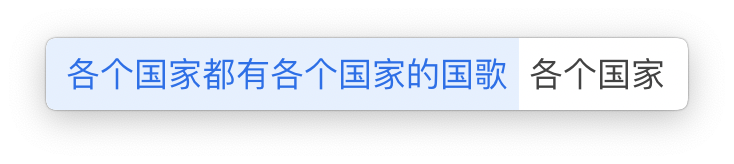
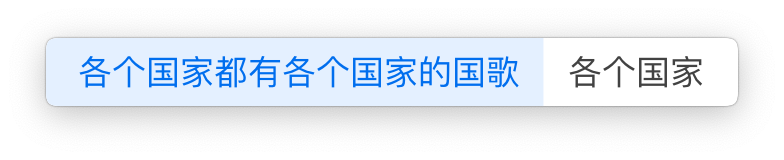
update 2021 schema

Changed region(s): [[0.0599, 0.2188, 0.9591, 0.6875], [0.9292, 0.25, 0.9591, 0.2812]]

diff --git a/_posts/2021-01-13-rime-squirrel-customization-2021.md b/_posts/2021-01-13-rime-squirrel-customization-2021.md
@@ -6,7 +6,10 @@ date:   2021-01-13 01:43 +0800
 
 今年的主题是放飞自我，做更多尝试，实现更高效的输入，获得量身定做般的成就感。
 
-<img src="/files/2021/squirrel_config_2021.png" alt="squirrel_screenshot_2021" width="50%">
+<img src="/files/2021/squirrel_config_2021.png" alt="squirrel_screenshot_2021" width="46%">
+<img src="/files/2021/punct_4.png" alt="squirrel_screenshot_2021" width="60%">
+<img src="/files/2021/punct_3.png" alt="squirrel_screenshot_2021" width="40%">
+<img src="/files/2021/emoji_1.png" alt="squirrel_screenshot_2021" width="25%">
 
 先尝试了[小鹤双拼的形码方案](https://bbs.flypy.com/forum.php?mod=viewthread&tid=184)，发现并不适合自己。鹤形，在拼音的基础上，引入了类似五笔的拆字规则，以期通过双拼加形码来解决重码问题，这就要求我们需要熟记几乎所有单字和词组的音、形编码，输入过程拼音、五笔双重袭脑，相互角力，堪比一心二用，对于习惯于读音思考的我来说，起点实在有些高。玩起来很有意思，只是坚持不下去。
 
@@ -31,6 +34,7 @@ date:   2021-01-13 01:43 +0800
 - 基础词库2：[简化字八股文](https://github.com/rime/rime-essay-simp)
 - 配置管理：[东风破](https://github.com/rime/plum)
 - 长句模型：[八股文语言模型](https://github.com/lotem/rime-octagram-data)
+- Rime详解：[LEOYoon-Tsaw/Rime_collections](https://github.com/LEOYoon-Tsaw/Rime_collections)
 
 Python 生态，做前期数据处理，大致路径如下：
 
@@ -95,8 +99,10 @@ engine:
 
 # 增加了 :./-=_+ 作为输入码
 # 便于在打字中，不中断地输入 3.14、2:00-3:00 等
+# 始码限制为：仅字母和数字
 speller:
-  alphabet: 'zyxwvutsrqponmlkjihgfedcba0987654321:./-=_+'
+  alphabet: 'zyxwvutsrqponmlkjihgfedcba0987654321:,.!()/-=_+'
+  initials: 'zyxwvutsrqponmlkjihgfedcba0987654321'
   algebra:
     - erase/^xx$/
     - derive/^([jqxy])u$/$1v/
@@ -206,18 +212,19 @@ extended.dict.yaml
 ---
 name: extended
 version: "2020.12.30"
-sort: by_weight  # original, by_weight
+sort: by_weight
 vocabulary: essay-zh-hans
 use_preset_vocabulary: true
 
 import_tables:
   - pinyin_simp
+  - placeless_punct
 ...
 ```
 
 pinyin_simp.dict.yaml 
 
-为了在长句中文中顺畅输入数字和常用符号，加入了一些土方。其中的..是双击句号输入全角句号。
+基于 8105 个常用标准汉字匹配、剪裁自带的袖珍简体字词库
 
 ```yaml
 # Rime dictionary
@@ -230,15 +237,36 @@ version: "0.2"
 sort: by_weight
 ...
 
+# zh_simp 精简 -> 8105
+```
+
+placeless_punct.dict.yaml 
+
+<img src="/files/2021/punct_1.png" alt="squirrel_screenshot_2021" width="22%">
+<img src="/files/2021/punct_5.png" alt="squirrel_screenshot_2021" width="50%">
+<img src="/files/2021/candidate_1.png" alt="squirrel_screenshot_2021" width="55%">
+
+为了方便混和输入符号和中文，将以下个人常用符号编入了码表。通常来讲鼠须管的默认状态下，像逗号、句号等，输入即触发上屏动作的，现在就不行了，需要在词语或整句输入完成之后单独敲一下。不需要选词，单个的逗号句号会直接作为中文标点上屏。
+
+```yaml
+# Rime dictionary
+# encoding: utf-8
+#
+
+---
+name: placeless_punct
+version: "0.2"
+sort: by_weight
+...
+
 # 个人土方
-.	.	2
-。	..	1
-:	:	2
-：	::		1
+.	.	1
+,	,	1
+:	:	1
 /	/	1
--	-	2
+-	-	1
 _	_	1
-=	=	2
+=	=	1
 +	+	1
 0	0	1
 1	1	1
@@ -250,9 +278,7 @@ _	_	1
 7	7	1
 8	8	1
 9	9	1
-# zh_simp 精简 -> 8105
 ```
-
 
 
 ### 方案选单 
@@ -271,6 +297,8 @@ patch:
 
 squirrel.custom.yaml
 
+因为只有两个候选，这里隐藏掉了候选词序号，并适当调整了元素间距，让只有两个候选词的候选框看着尽可能舒服一些。
+
 ```yaml
 patch:
   # 通知栏显示方式以及 ascii_mode 应用，与外观无关
@@ -285,25 +313,22 @@ patch:
 
   preset_color_schemes:
     apathy:
-      author: "LIANG Hai"
-      border_height: 6
-      border_width: 4
+      author: "LIANG Hai | placeless"
       candidate_list_layout: linear # stacked | linear
       text_orientation: horizontal
       inline_preedit: true
-      candidate_format: "%c\u2005%@\u2005"
+      candidate_format: "%c'%@''"
       comment_text_color: 0x999999
       corner_radius: 5
       font_face: PingFangSC
       font_point: 17
-      label_font_point: 1
+      label_font_point: 17
       back_color: 0xFFFFFF
       text_color: 0x424242
       label_color: 0xFFFFFF
       hilited_candidate_back_color: 0xFFF0E4
       hilited_candidate_text_color: 0xEE6E00
       hilited_candidate_label_color: 0xFFF0E4
-      # alpha: 0.95
       name: "冷漠／Apathy"
 ```
 
